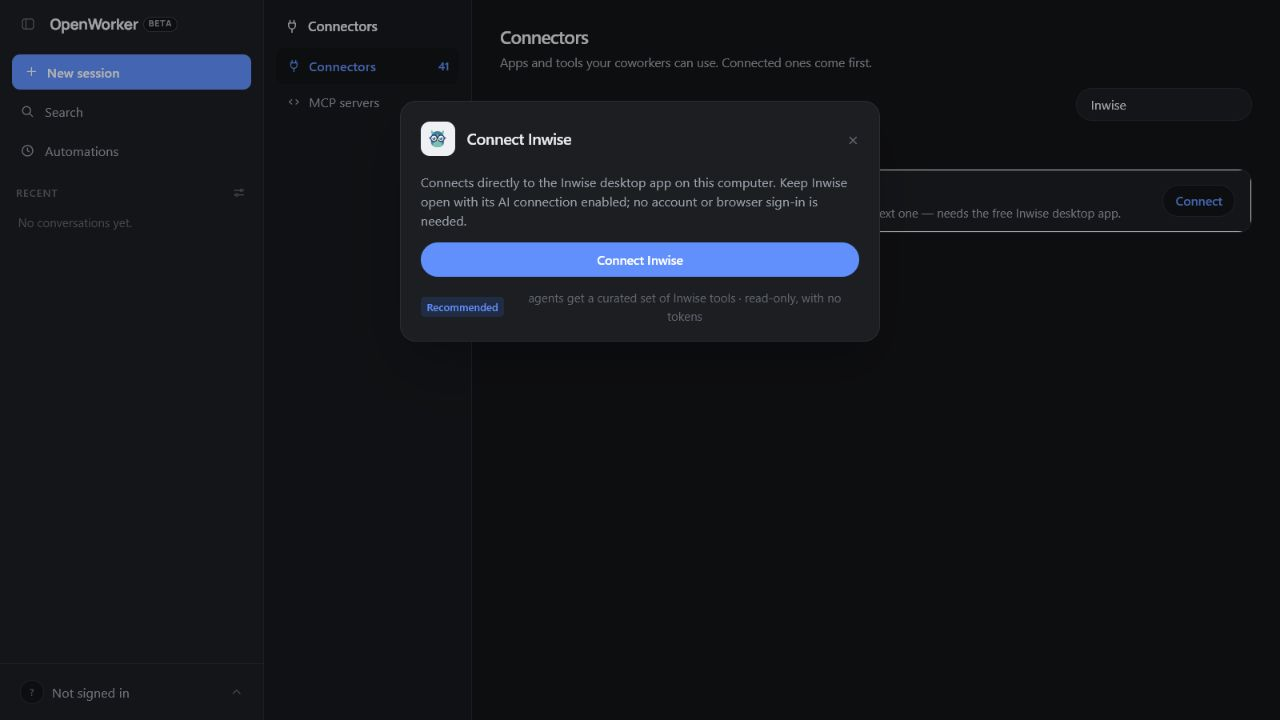
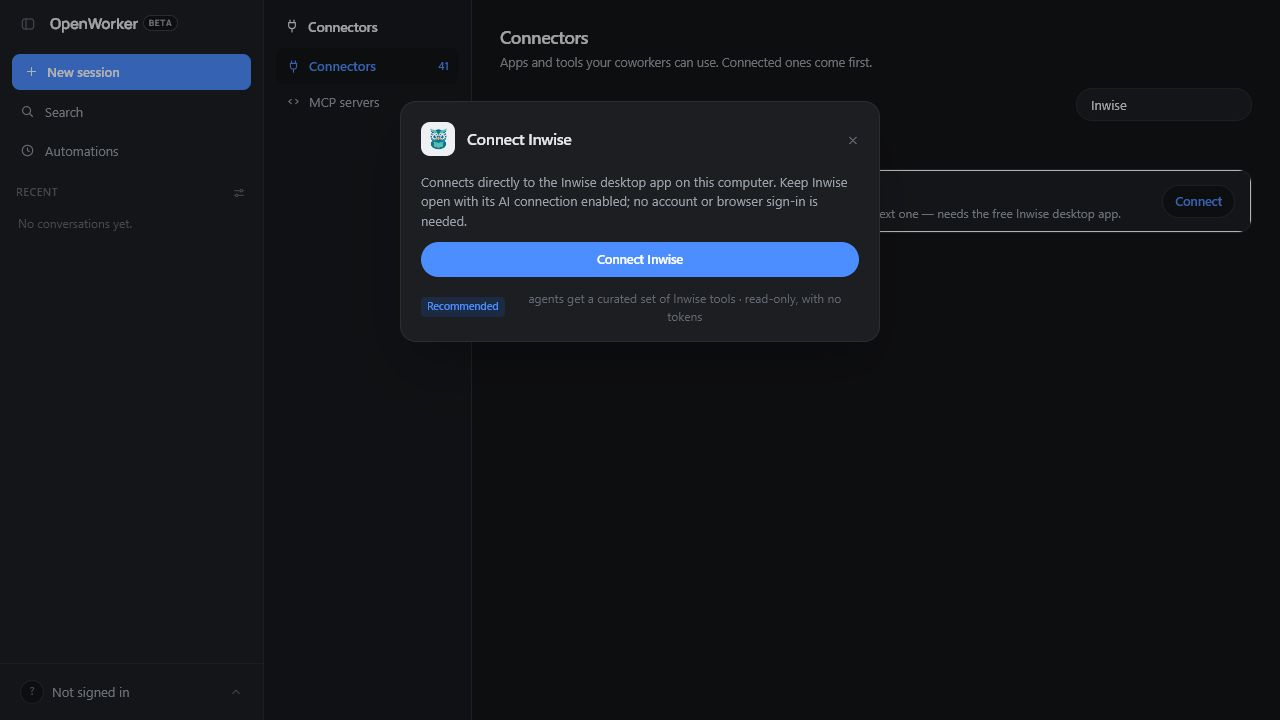
Use supplied Inwise owl artwork

diff --git a/surfaces/gui/src/connectors/registry.tsx b/surfaces/gui/src/connectors/registry.tsx
@@ -10,10 +10,11 @@
 // the same format. Brands with no published monochrome mark (Attio, Apollo.io, Hunter,
 // Amplitude, Descript, Clay, Close, Docusign — whose current post-rebrand mark no icon pack
 // ships) and the non-brand utilities (email, browser, MCP, fallback plug) keep simple custom
-// glyphs. Inwise is the one full-color mark: its owl is multi-color by design, so it carries
-// its own fills and ignores the tint (the badge background still uses `brand_color`).
+// glyphs. Inwise is the one full-color raster mark: its supplied owl artwork is multi-color and
+// ignores the tint (the badge background still uses `brand_color`).
 // (Filename is `.tsx` because the entries are JSX — the spec's `registry.ts` can't hold JSX.)
 
+import inwiseLogoUrl from "../assets/inwise-logo.png";
 import type { SimpleIcon } from "simple-icons";
 import {
   siAsana,
@@ -134,41 +135,11 @@ const MondayLogo = strokeLogo(
   </>,
 );
 
-// Inwise's mark is a bespectacled owl. Unlike every other entry here it carries its
-// own fills instead of `currentColor`: the brand mark is multi-color (teal body, mint
-// tufts and chest, navy glasses, amber beak) and reads as a different bird in one tone.
-// `brand_color` still drives the badge background, so the descriptor stays the source
-// of truth for everything the tint controls.
+// The supplied full-color Inwise owl is bundled as a transparent image so the connector uses
+// the actual brand artwork rather than a hand-drawn approximation. `brand_color` still drives
+// the badge background, so the descriptor remains the source of truth for the surrounding tint.
 const InwiseLogo: LogoComponent = () => (
-  <svg viewBox="0 0 64 64" width="100%" height="100%" aria-hidden="true">
-    {/* ear tufts — behind the head so they read as horns */}
-    <path d="M17 27C10 17 9 8 12 5c4 2 12 11 15 20z" fill="#61C1B6" />
-    <path d="M47 27c7-10 8-19 5-22-4 2-12 11-15 20z" fill="#61C1B6" />
-    {/* body + head silhouette */}
-    <ellipse cx="32" cy="45" rx="22" ry="17" fill="#2A7F93" />
-    <circle cx="32" cy="28" r="20" fill="#2A7F93" />
-    {/* mint chest */}
-    <path d="M20 44c2-4 6-6 12-6s10 2 12 6c3 4 4 8 4 11-4 5-10 7-16 7s-12-2-16-7c0-3 1-7 4-11z" fill="#61C1B6" />
-    {/* forehead marking between the lenses */}
-    <path d="M32 15c-2 6-2.5 11-2 16l2-3 2 3c.5-5 0-10-2-16z" fill="#61C1B6" />
-    {/* glasses: white lenses, navy rims, bridge and temples */}
-    <circle cx="20" cy="32" r="10.5" fill="#FFFFFF" stroke="#16357C" strokeWidth="3.5" />
-    <circle cx="44" cy="32" r="10.5" fill="#FFFFFF" stroke="#16357C" strokeWidth="3.5" />
-    <path
-      d="M30.5 31h3M9.5 31H5M54.5 31H59"
-      stroke="#16357C"
-      strokeWidth="3.5"
-      strokeLinecap="round"
-      fill="none"
-    />
-    {/* eyes */}
-    <circle cx="20" cy="33" r="5.5" fill="#2A7F93" />
-    <circle cx="44" cy="33" r="5.5" fill="#2A7F93" />
-    <circle cx="18" cy="30" r="2" fill="#FFFFFF" />
-    <circle cx="42" cy="30" r="2" fill="#FFFFFF" />
-    {/* beak — rounded at the brow, pointed at the tip */}
-    <path d="M32 44c-2-3-3.2-6.2-2.6-9.2 1-2.4 4.2-2.4 5.2 0C35.2 37.8 34 41 32 44z" fill="#F9B119" />
-  </svg>
+  <img className="inwise-logo" src={inwiseLogoUrl} alt="" aria-hidden="true" />
 );
 
 const AmplitudeLogo = strokeLogo(

diff --git a/surfaces/gui/src/connectors/ConnectorIcon.test.tsx b/surfaces/gui/src/connectors/ConnectorIcon.test.tsx
@@ -34,6 +34,17 @@ describe("ConnectorIcon", () => {
     expect(el.style.getPropertyValue("--brand")).toBe("#6b7280");
   });
 
+  it("renders the supplied full-color image for Inwise", () => {
+    const { container } = render(
+      <ConnectorIcon connector={{ logo: "inwise", brand_color: "#0F738C" }} />,
+    );
+    const el = container.querySelector('[data-logo="inwise"]') as HTMLElement;
+    const image = el.querySelector("img");
+    expect(image).not.toBeNull();
+    expect(image?.getAttribute("src")).toContain("inwise-logo");
+    expect(image?.getAttribute("aria-hidden")).toBe("true");
+  });
+
   it("flags near-black marks so dark-mode CSS can compensate", () => {
     // GitHub / Notion near-black → flagged; HubSpot orange → not.
     expect(isDarkMark("#1f2328")).toBe(true);

diff --git a/surfaces/gui/src/styles.css b/surfaces/gui/src/styles.css
@@ -1382,10 +1382,15 @@ button.btn.ghost:hover { color: var(--ink); }
   line-height: 0;
   color: var(--brand, #6b7280);
 }
-.connector-icon > svg {
+.connector-icon > svg,
+.connector-icon > img {
   display: block;
   width: 100%;
   height: 100%;
+  object-fit: contain;
+}
+.connector-icon > img.inwise-logo {
+  transform: scale(1.28);
 }
 .connector-badge {
   display: inline-grid;
